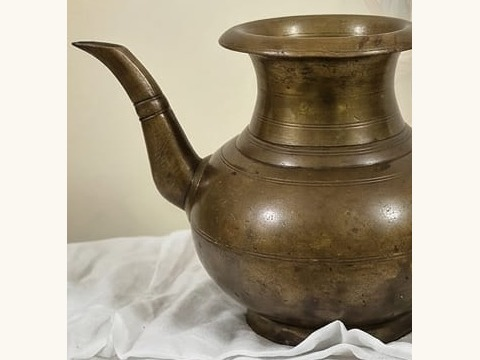
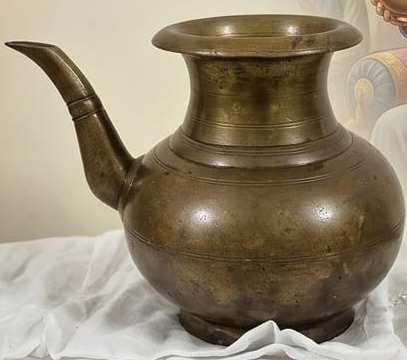
Rename site to Baba Bhai Roop Chand Ji Collection Museum; restore full Ganga Sagar image
Site name updated across header, footer, copyright, and all page <title>
metadata. Header brand scaled down slightly and the redundant 'View Tour
Schedule' button hidden on mobile so the longer name fits without
crowding the language toggle and menu. Hero headline no longer repeats
the brand (now just 'The Living Legacy of Sri Guru Hargobind Sahib Ji')
in both EN and PA, since the museum name sits directly above it.

Ganga Sagar now uses the full uncropped source photo so the vessel is
complete rim-to-base; the card letterboxes it at its native 1.131 ratio
instead of forcing a 4:3 crop.

diff --git a/src/lib/i18n.ts b/src/lib/i18n.ts
@@ -19,7 +19,7 @@ export const translations = {
     menuCustodian: "The Custodian",
 
     heroEyebrow: "In the Custodianship of Bhai Roop Chand Ji's Descendants",
-    heroTitle: "The Living Legacy of Sri Guru Hargobind Sahib Ji: The Sacred Relics Tour",
+    heroTitle: "The Living Legacy of Sri Guru Hargobind Sahib Ji",
     heroBody:
       "For over 300 years, the descendants of Bhai Roop Chand Ji have carried the sacred shastars and artifacts bestowed by the sixth Guru. This tour brings those relics — and the story of their unbroken custodianship — to sangats across the country.",
     heroCtaSchedule: "View Tour Schedule",
@@ -88,7 +88,7 @@ export const translations = {
     menuCustodian: "ਸੇਵਾਦਾਰ",
 
     heroEyebrow: "ਭਾਈ ਰੂਪ ਚੰਦ ਜੀ ਦੇ ਵੰਸ਼ਜਾਂ ਦੀ ਸੇਵਾਦਾਰੀ ਵਿੱਚ",
-    heroTitle: "ਸ੍ਰੀ ਗੁਰੂ ਹਰਗੋਬਿੰਦ ਸਾਹਿਬ ਜੀ ਦੀ ਜੀਵਤ ਵਿਰਾਸਤ: ਪਵਿੱਤਰ ਨਿਸ਼ਾਨੀਆਂ ਦਾ ਟੂਰ",
+    heroTitle: "ਸ੍ਰੀ ਗੁਰੂ ਹਰਗੋਬਿੰਦ ਸਾਹਿਬ ਜੀ ਦੀ ਜੀਵਤ ਵਿਰਾਸਤ",
     heroBody:
       "300 ਸਾਲਾਂ ਤੋਂ ਵੱਧ ਸਮੇਂ ਤੋਂ, ਭਾਈ ਰੂਪ ਚੰਦ ਜੀ ਦੇ ਵੰਸ਼ਜਾਂ ਨੇ ਛੇਵੇਂ ਗੁਰੂ ਦੁਆਰਾ ਬਖਸ਼ੇ ਪਵਿੱਤਰ ਸ਼ਸਤਰ ਅਤੇ ਨਿਸ਼ਾਨੀਆਂ ਸੰਭਾਲੀਆਂ ਹਨ। ਇਹ ਟੂਰ ਉਹ ਨਿਸ਼ਾਨੀਆਂ — ਅਤੇ ਉਹਨਾਂ ਦੀ ਨਿਰੰਤਰ ਸੇਵਾਦਾਰੀ ਦੀ ਕਹਾਣੀ — ਦੇਸ਼ ਭਰ ਦੀ ਸੰਗਤ ਤੱਕ ਲੈ ਕੇ ਆਉਂਦਾ ਹੈ।",
     heroCtaSchedule: "ਟੂਰ ਸ਼ਡਿਊਲ ਵੇਖੋ",

diff --git a/src/components/Header.tsx b/src/components/Header.tsx
@@ -30,16 +30,16 @@ export default function Header({ breadcrumb }: { breadcrumb?: string } = {}) {
       )}
       <div className="border-b border-navy-800 bg-navy-950/95 backdrop-blur">
         <div className="mx-auto flex max-w-6xl items-center justify-between px-4 py-3 sm:px-6">
-          <Link href="/" className="flex items-center gap-2">
-            <span className="font-serif text-lg font-semibold text-gold-300 sm:text-xl">
-              The Sacred Relics Tour
+          <Link href="/" className="flex min-w-0 items-center gap-2">
+            <span className="font-serif text-sm font-semibold leading-tight text-gold-300 sm:text-base lg:text-lg">
+              Baba Bhai Roop Chand Ji Collection Museum
             </span>
           </Link>
-          <div className="flex items-center gap-2 sm:gap-4">
+          <div className="flex flex-shrink-0 items-center gap-2 sm:gap-4">
             <LanguageToggle />
             <Link
               href="/#schedule"
-              className="rounded-md border border-gold-400 px-3 py-1.5 text-xs font-semibold text-gold-300 transition hover:bg-gold-400 hover:text-navy-950 sm:text-sm"
+              className="hidden rounded-md border border-gold-400 px-3 py-1.5 text-xs font-semibold text-gold-300 transition hover:bg-gold-400 hover:text-navy-950 sm:inline-block sm:text-sm"
             >
               {t("viewTourSchedule")}
             </Link>

diff --git a/src/components/Footer.tsx b/src/components/Footer.tsx
@@ -17,7 +17,7 @@ export default function Footer() {
       <div className="mx-auto max-w-6xl px-4 py-10 sm:px-6">
         <div className="flex flex-col items-center gap-6 text-center">
           <span className="font-serif text-lg text-gold-300">
-            The Sacred Relics Tour
+            Baba Bhai Roop Chand Ji Collection Museum
           </span>
           <p className="max-w-xl text-sm text-cream-100/70">
             {t("footerTagline")}
@@ -56,7 +56,7 @@ export default function Footer() {
             </Link>
           </div>
           <p className="text-xs text-cream-100/40">
-            &copy; 2026 The Sacred Relics Tour &middot; In Service of the Sangat
+            &copy; 2026 Baba Bhai Roop Chand Ji Collection Museum &middot; In Service of the Sangat
           </p>
         </div>
       </div>

diff --git a/src/app/host/page.tsx b/src/app/host/page.tsx
@@ -21,7 +21,7 @@ export default function HostPage() {
           </h1>
           <p className="mt-5 text-base leading-relaxed text-navy-700">
             Gurdwaras, educational institutions, and heritage organizations
-            are warmly invited to bring the Sacred Relics Tour to their
+            are warmly invited to bring these sacred relics to their
             community. Please share a few details below and the touring
             custodian&apos;s team will follow up to discuss dates, space
             requirements, and logistics.

diff --git a/src/app/layout.tsx b/src/app/layout.tsx
@@ -15,7 +15,7 @@ const playfair = Playfair_Display({
 });
 
 export const metadata: Metadata = {
-  title: "The Sacred Relics Tour | Legacy of Bhai Roop Chand Ji",
+  title: "Baba Bhai Roop Chand Ji Collection Museum",
   description:
     "A touring exhibition of the sacred shastars and relics bestowed by Sri Guru Hargobind Sahib Ji, in the continuing custodianship of the descendants of Bhai Roop Chand Ji.",
 };

diff --git a/src/app/lineage/page.tsx b/src/app/lineage/page.tsx
@@ -6,7 +6,7 @@ import AnimatedTimeline from "@/components/AnimatedTimeline";
 import Reveal from "@/components/Reveal";
 
 export const metadata: Metadata = {
-  title: "Lineage & History | The Sacred Relics Tour",
+  title: "Lineage & History | Baba Bhai Roop Chand Ji Collection Museum",
 };
 
 export default function LineagePage() {

diff --git a/src/app/schedule/page.tsx b/src/app/schedule/page.tsx
@@ -6,7 +6,7 @@ import Reveal from "@/components/Reveal";
 import { tourStops } from "@/lib/data";
 
 export const metadata: Metadata = {
-  title: "Tour Dates & Visitor Guide | The Sacred Relics Tour",
+  title: "Tour Dates & Visitor Guide | Baba Bhai Roop Chand Ji Collection Museum",
 };
 
 export default function SchedulePage() {

diff --git a/src/app/custodian/page.tsx b/src/app/custodian/page.tsx
@@ -5,7 +5,7 @@ import Reveal from "@/components/Reveal";
 import { custodian } from "@/lib/data";
 
 export const metadata: Metadata = {
-  title: "The Custodian | The Sacred Relics Tour",
+  title: "The Custodian | Baba Bhai Roop Chand Ji Collection Museum",
 };
 
 export default function CustodianPage() {

diff --git a/src/app/relics/page.tsx b/src/app/relics/page.tsx
@@ -6,7 +6,7 @@ import Reveal from "@/components/Reveal";
 import { relics } from "@/lib/data";
 
 export const metadata: Metadata = {
-  title: "Relic Archive | The Sacred Relics Tour",
+  title: "Relic Archive | Baba Bhai Roop Chand Ji Collection Museum",
 };
 
 export default function RelicsPage() {
